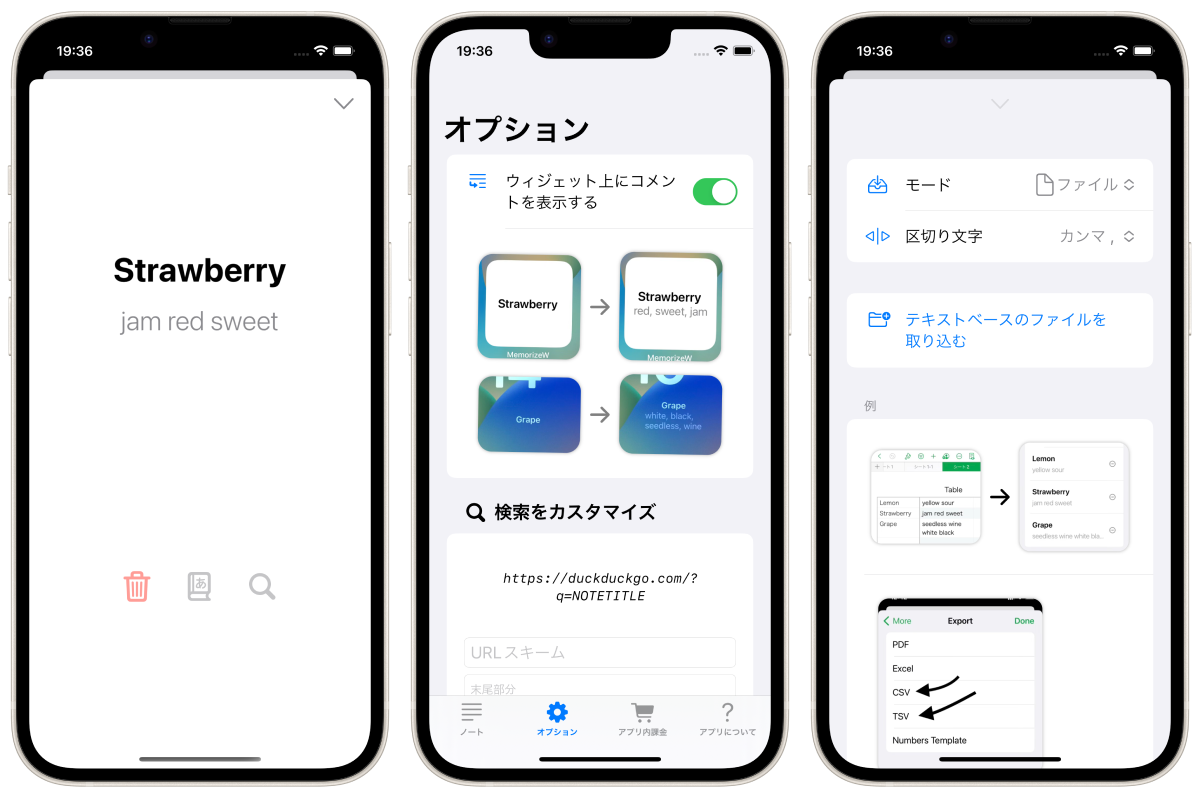
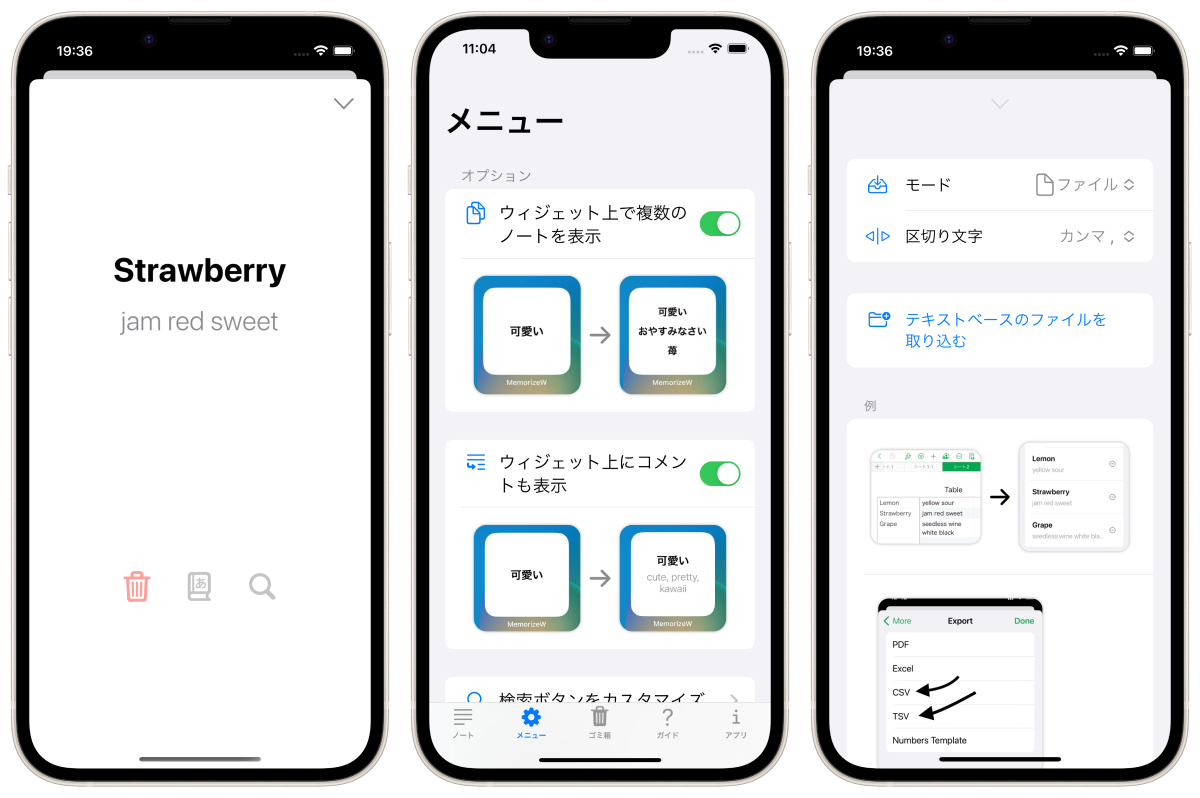
MW v1.2 //WIP

diff --git a/MemorizeWidget/index.md b/MemorizeWidget/index.md
@@ -1,12 +1,12 @@
 ---
 layout: product
 folderName: MemorizeWidget
-description: iPhone/iPad用アプリ。ホーム画面やロック画面に配置したウィジェットを暗記帳にできるアプリ。日常の中で知識を脳に染み込ませよう。
+description: iPhone/iPad/Apple Watch/Mac用アプリ。ホーム画面やロック画面に配置したウィジェットを暗記帳にできるアプリ。日常の中で知識を脳に染み込ませよう。
 ---
 
 暗記ウィジェット MemorizeWidget
 ============================
-_iPhone/iPadのホーム画面やロック画面を暗記帳にしよう_
+_iPhone/iPad/Apple Watch/Macを暗記帳にしよう_
 
 <img src="icon.png" width="80">
 
@@ -26,13 +26,26 @@ _iPhone/iPadのホーム画面やロック画面を暗記帳にしよう_
 - テキストやファイル(csv、tsv、txtなど)から暗記帳データをインポート可能
 - OS内蔵の辞書と連携
 - カスタマイズ可能な検索機能
+- iCloudによって端末間でデータを同期
 
 <img src="screenshot1200w.png" width="600">
 
-### オプション
-- ウィジェット上でノートの「タイトル」だけでなく「コメント」を表示することも可能(ホーム画面のウィジェット/ロック画面の長方形ウィジェットのみ対象)
+オプション
 
-### 最新機種 iPhone 14 Pro にオススメ！
+- ウィジェット上でノートの「タイトル」だけでなく「コメント」を表示することも可能(ホーム画面のウィジェット/ロック画面の長方形ウィジェットのみ対象)
+- 複数個のノートを表示
+
+
+マルチプラットフォーム対応
+
+- iPhone: ロック画面ウィジェット(iOS16以降), ホーム画面ウィジェット
+- iPad: ホーム画面ウィジェット
+- Apple Watch: コンプリケーション
+- Mac: 通知センターウィジェット
+
+
+最新機種 iPhone 14 Pro にオススメ！
+
 常時表示ディスプレイが搭載された iPhone 14 Pro なら、iPhoneを触らなくても暗記帳をチェック可能！
 
 > <img src="iphone14pro_alwaysondisplay.png" width="250">
@@ -52,6 +65,8 @@ _iPhone/iPadのホーム画面やロック画面を暗記帳にしよう_
 ### プラットフォーム
 - iOS 15.6 以降
 - iPadOS 15.6 以降
+- watchOS 9.0 以降
+- macOS 12.4 以降
 
 ### サポート言語
 - 日本語

diff --git a/translation/MemorizeWidget/body.md b/translation/MemorizeWidget/body.md
@@ -4,7 +4,7 @@ published: false
 
 <h1 translate="no">MemorizeWidget</h1>
 
-_iPhone/iPadのホーム画面やロック画面を暗記帳にしよう_
+_iPhone/iPad/Apple Watch/Macを暗記帳にしよう_
 
 <img src="icon.png" width="80">
 
@@ -24,13 +24,26 @@ _iPhone/iPadのホーム画面やロック画面を暗記帳にしよう_
 - テキストやファイル(csv、tsv、txtなど)から暗記帳データをインポート可能
 - OS内蔵の辞書と連携
 - カスタマイズ可能な検索機能
+- iCloudによって端末間でデータを同期
 
 <img src="screenshot1200w.png" width="600">
 
-### オプション
-- ウィジェット上でノートの「タイトル」だけでなく「コメント」を表示することも可能(ホーム画面のウィジェット/ロック画面の長方形ウィジェットのみ対象)
+オプション
 
-### 最新機種 iPhone 14 Pro にオススメ！
+- ウィジェット上でノートの「タイトル」だけでなく「コメント」を表示することも可能(ホーム画面のウィジェット/ロック画面の長方形ウィジェットのみ対象)
+- 複数個のノートを表示
+
+
+マルチプラットフォーム対応
+
+- iPhone: ロック画面ウィジェット(iOS16以降), ホーム画面ウィジェット
+- iPad: ホーム画面ウィジェット
+- Apple Watch: コンプリケーション
+- Mac: 通知センターウィジェット
+
+
+最新機種 iPhone 14 Pro にオススメ！
+
 常時表示ディスプレイが搭載された iPhone 14 Pro なら、iPhoneを触らなくても暗記帳をチェック可能！
 
 > <img src="iphone14pro_alwaysondisplay.png" width="250">
@@ -50,6 +63,8 @@ _iPhone/iPadのホーム画面やロック画面を暗記帳にしよう_
 ### プラットフォーム
 - iOS 15.6 以降
 - iPadOS 15.6 以降
+- watchOS 9.0 以降
+- macOS 12.4 以降
 
 ### サポート言語
 - 日本語
